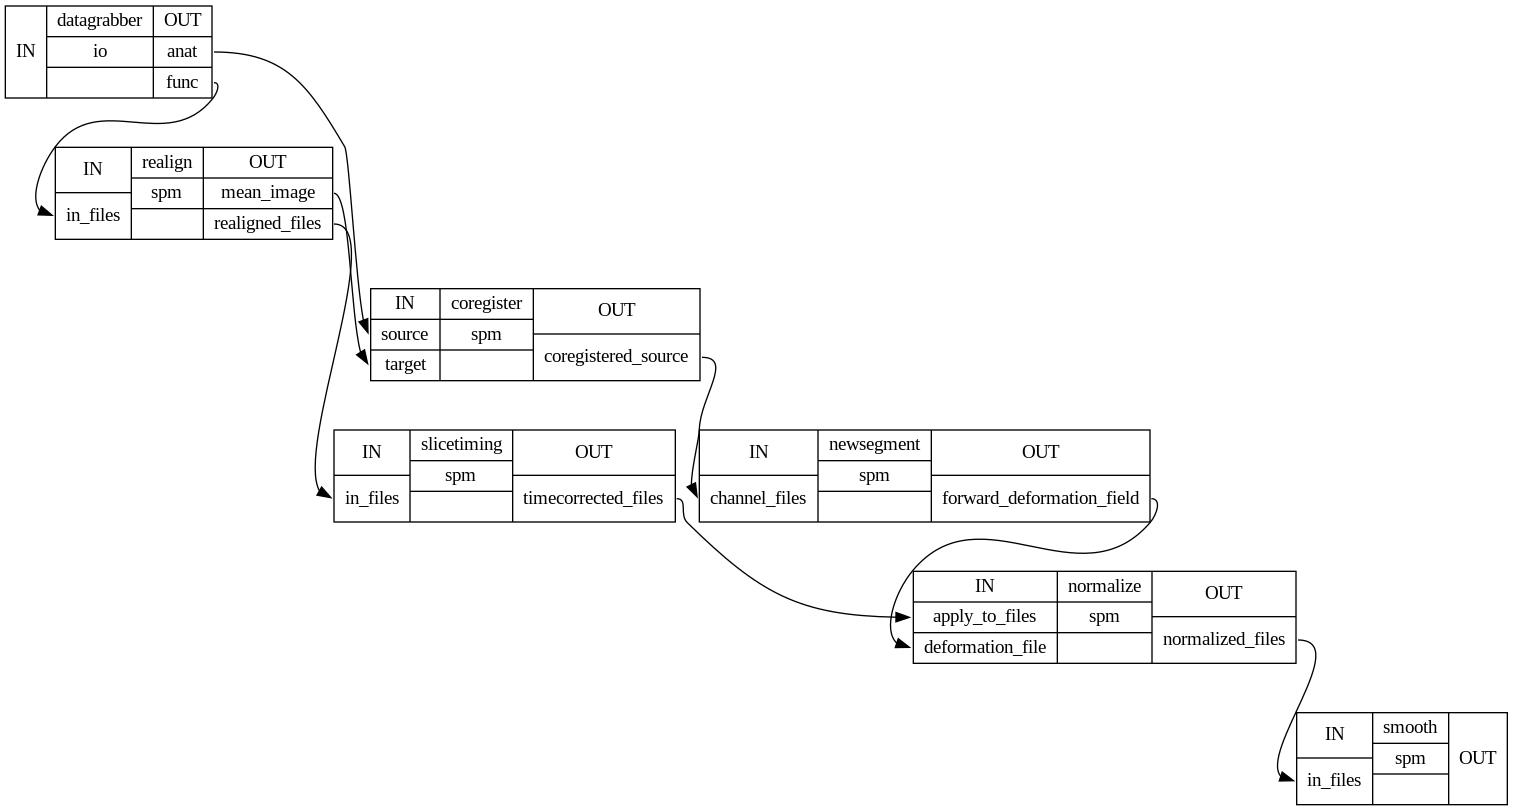
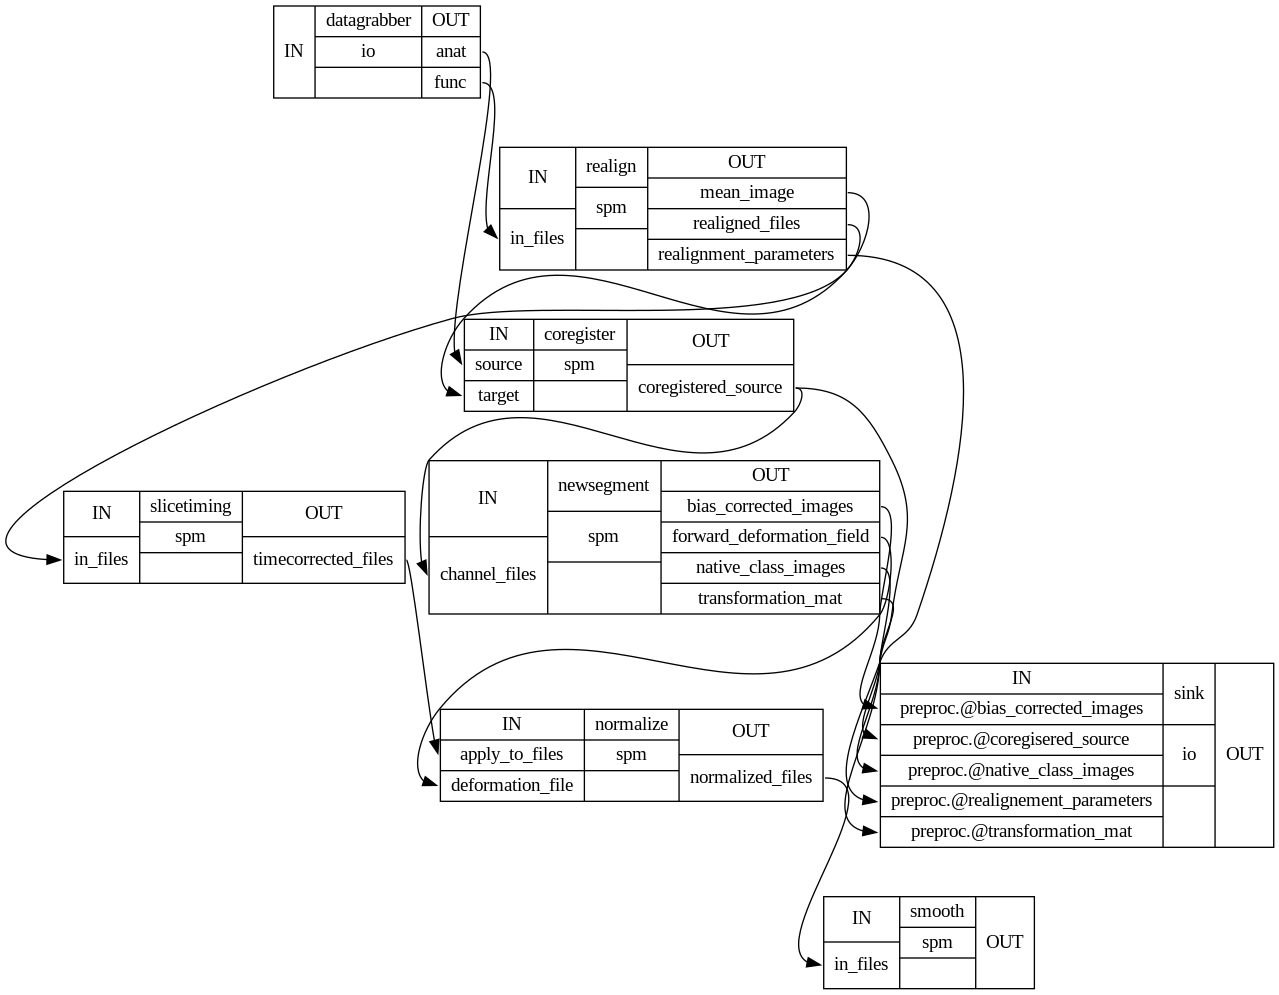
figure edit

diff --git a/src/Nipype/nipype_spm_preproc.py b/src/Nipype/nipype_spm_preproc.py
@@ -143,6 +143,7 @@ preproc.connect([(grabber, realigner, [('func', 'in_files')]),
                  (realigner, coregister, [('mean_image', 'target')]),
                  (realigner, sink, [('realignment_parameters', 'preproc.@realignement_parameters')]),
                  (grabber, coregister, [('anat', 'source')]), 
+                 (coregister, sink, [('coregistered_source', 'preproc.@coregisered_source')]),
                  (coregister, segment, [('coregistered_source', 'channel_files')]),
                  (segment, sink, [('bias_corrected_images', 'preproc.@bias_corrected_images'), 
                                  ('transformation_mat', 'preproc.@transformation_mat'),
@@ -162,4 +163,4 @@ preproc.write_graph(graph2use='colored', format='png', dotfilename='flat_graph.d
 # running the workflow
 
 
-preproc.run()
+preproc.run('MultiProc', plugin_args={'n_procs': 4})
